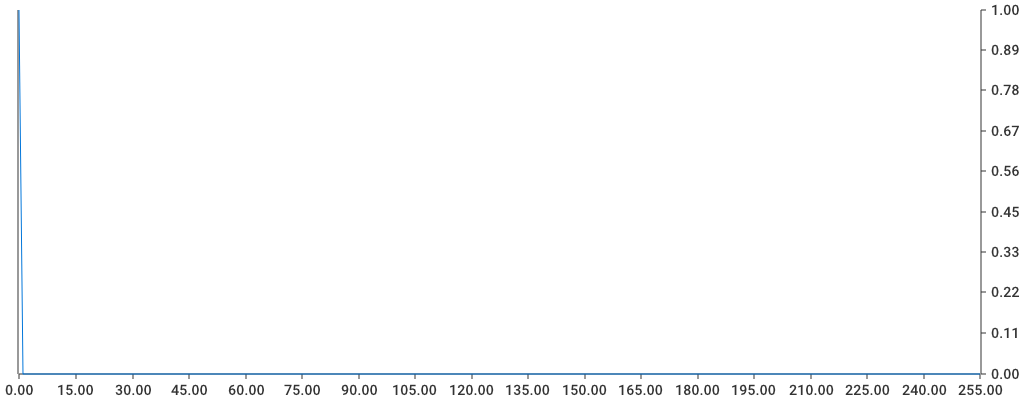
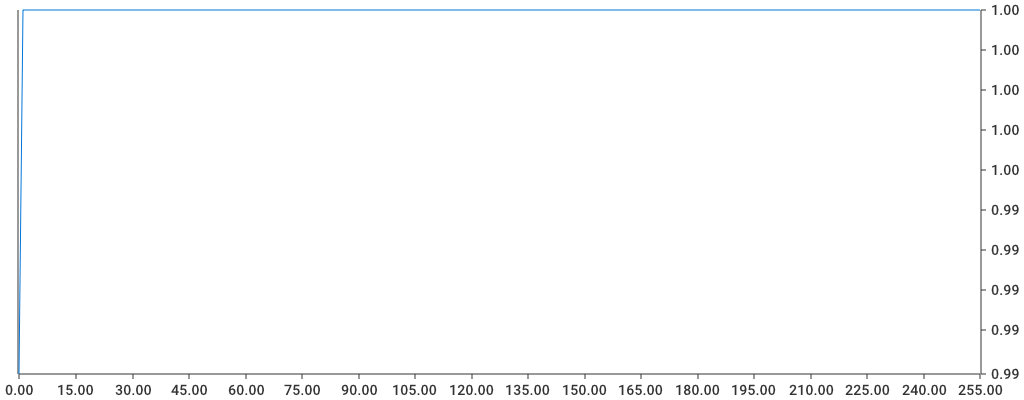
Mejorando codigo

diff --git a/pkg/operations/operations.go b/pkg/operations/operations.go
@@ -2,6 +2,7 @@ package operations
 
 import (
 	"errors"
+	"fmt"
 	"image"
 	"image/color"
 	"math"
@@ -105,20 +106,17 @@ func AdjustBrightnessAndContrast(newBrightness, newContrast float64,
 
 func Entropy(numbersOfPixel map[int]int, size int) float64 {
 	entropy := 0.0
-	/*fmt.Println("Tamaño: ", size)
-	fmt.Println("Número de pixels: ", len(numbersOfPixel))
-	numerocolores := 0*/
 	for i := 0; i < len(numbersOfPixel); i++ {
 		if numbersOfPixel[i] > 0 {
-			/*numerocolores++
-			fmt.Println(numbersOfPixel[i])*/
 			p := float64(numbersOfPixel[i]) / float64(size)
+			/*fmt.Println("P:", p)
+			fmt.Println("Log:", math.Log2(p))
+			fmt.Println("Mult:", p*math.Log2(p))
+			fmt.Println()*/
 			entropy += p * math.Log2(p)
 		}
 	}
 	entropy *= -1.0
-	/*fmt.Println(entropy)
-	fmt.Println(numerocolores)*/
 	return entropy
 }
 
@@ -211,10 +209,28 @@ func ChangeMap(difference *image.Gray, img image.Image, threshold float64) image
 				newColor = color.RGBA{R: uint8(255), G: uint8(0), B: uint8(0), A: uint8(255)}
 			} else {
 				r, g, b, a := img.At(i, j).RGBA()
+				r, g, b, a = r>>8, g>>8, b>>8, a>>8
 				newColor = color.RGBA{R: uint8(r), G: uint8(g), B: uint8(b), A: uint8(a)}
 			}
 			newImage.SetRGBA(i, j, newColor)
 		}
+	}
+	return newImage
+}
+
+func ROI(grayImage *image.Gray, i1, j1, i2, j2 int) *image.Gray {
+	width := j2 - j1
+	height := i2 - i1
+	newImage := image.NewGray(image.Rectangle{image.Point{0, 0}, image.Point{width, height}})
+	k := 0
+	z := 0
+	for i := i1; i <= i2; i++ {
+		for j := j1; j <= j2; j++ {
+			fmt.Println(grayImage.GrayAt(i, j))
+			newImage.Set(k, z, grayImage.GrayAt(i, j))
+			z++
+		}
+		k++
 	}
 	return newImage
 }

diff --git a/pkg/menu/menu.go b/pkg/menu/menu.go
@@ -93,10 +93,12 @@ func GeneralMenu(application fyne.App, grayImage *image.Gray,
 			if point1IInt < 0 || point1JInt < 0 || point2IInt < 0 || point2JInt < 0 {
 				dialog.ShowError(errors.New("the i and j values must be positive"),
 					roiWindow)
-			}
-			if point1IInt > width || point1JInt > height || point2IInt > width || point2JInt > height {
+			} else if point1IInt > width || point1JInt > height || point2IInt > width || point2JInt > height {
 				dialog.ShowError(errors.New("The i value must be lower than "+strconv.Itoa(width)+" and j value must be lower than "+strconv.Itoa(height)),
 					roiWindow)
+			} else {
+				ROIimage := operations.ROI(grayImage, point1IInt, point1JInt, point2IInt, point2JInt)
+				GeneralMenu(application, ROIimage, lutGray, "ROI", format)
 			}
 		}))
 

diff --git a/pkg/histogram/histogram.go b/pkg/histogram/histogram.go
@@ -38,7 +38,6 @@ func Plote(numbersOfPixel map[int]int, values plotter.Values, cumulative bool) {
 	if cumulative {
 		number = CumulativeHistogram(numbersOfPixel)
 	}
-
 	Xaxis := []float64{}
 	Yaxis := []float64{}
 	// fmt.Println(len(values))
@@ -47,6 +46,7 @@ func Plote(numbersOfPixel map[int]int, values plotter.Values, cumulative bool) {
 		Yaxis = append(Yaxis, float64(float64(number[i])/float64(len(values))))
 		Xaxis = append(Xaxis, float64(i))
 	}
+	Yaxis[0] -= 0.01
 	value = chart.ContinuousSeries{
 		XValues: Xaxis,
 		YValues: Yaxis,

diff --git a/proyecto.go b/proyecto.go
@@ -42,8 +42,7 @@ func interfaz() {
 	newItemSeparator := fyne.NewMenuItemSeparator()
 
 	fileItem := fyne.NewMenu("File", openFileItem, newItemSeparator, quitItem)
-	optionItem := fyne.NewMenu("Options")
-	menu := fyne.NewMainMenu(fileItem, optionItem)
+	menu := fyne.NewMainMenu(fileItem)
 	mainWindow.SetMainMenu(menu)
 	mainWindow.ShowAndRun()
 }
